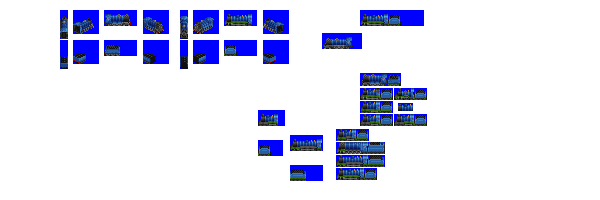
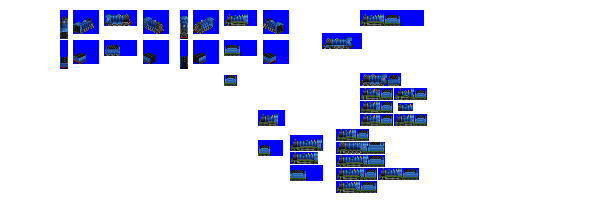
Change: re-introduce gen 2 express_1 engine (Carrack), and re-classify express engines to split heavy_express out

diff --git a/src/train.py b/src/train.py
@@ -215,7 +215,7 @@ class Consist(object):
         # will switch vehicle to livery 2 for specific roles of lead engine
         result = []
         for consist in self.roster.engine_consists:
-            if consist.role in ['express_1', 'express_2']:
+            if consist.role in ['heavy_express_1', 'heavy_express_2']:
                 result.append(consist.id)
         return result
 
@@ -278,7 +278,7 @@ class Consist(object):
             # could be fixed by checking a list of railtypes
             return speeds_by_track_type[self.speed_class][self.gen - 1]
         elif self.role:
-            express_roles = ['express_1', 'express_2', 'branch_express']
+            express_roles = ['express_1', 'express_2', 'heavy_express_1', 'heavy_express_2' 'branch_express']
             if self.role in express_roles:
                 return speeds_by_track_type['express'][self.gen - 1]
             elif self.role in ['pax_high_speed']:

diff --git a/src/vehicles/upcountry.py b/src/vehicles/upcountry.py
@@ -2,19 +2,19 @@ from train import EngineConsist, SteamEngineUnit, SteamEngineTenderUnit
 
 consist = EngineConsist(id='upcountry',
                         base_numeric_id=230,
-                        name='4-4-2 Upcountry',
-                        role='express_1',
-                        power=1300,
+                        name='4-6-0 Upcountry',
+                        role='heavy_express_1',
+                        power=1450,
                         tractive_effort_coefficient=0.18,
                         buy_cost=47,
                         gen=2)
 
 consist.add_unit(type=SteamEngineUnit,
                  weight=90,
-                 vehicle_length=7,
+                 vehicle_length=6,
                  spriterow_num=0)
 
 consist.add_unit(type=SteamEngineTenderUnit,
                  weight=35,
-                 vehicle_length=3,
+                 vehicle_length=4,
                  spriterow_num=1)

diff --git a/src/rosters/pony.py b/src/rosters/pony.py
@@ -4,6 +4,7 @@ from vehicles import apt_thing
 from vehicles import bean_feast
 from vehicles import boar_cat
 from vehicles import braf
+from vehicles import carrack
 from vehicles import cheddar_valley
 from vehicles import cheese_bug
 from vehicles import chimera
@@ -90,13 +91,14 @@ roster = Roster(id = 'pony',
                            super_shoebox,
                            ultra_shoebox,
                            spinner,
+                           carrack,
                            tencendur,
                            dragon,
+                           thunderbird,
+                           turtle,
                            upcountry,
                            pegasus,
                            shredder,
-                           thunderbird,
-                           turtle,
                            saxon,
                            little_bear,
                            faun,

diff --git a/src/vehicles/tencendur.py b/src/vehicles/tencendur.py
@@ -4,9 +4,7 @@ consist = EngineConsist(id='tencendur',
                         base_numeric_id=890,
                         name='4-4-0 Tencendur',
                         role='express_1',
-                        joker=True,  # this engine doesn't fit the set roster pattern, by design it's to mix things up
-                        # there is no date offset for this engine though, it needs to arrive at same time as Pegasus
-                        power=1300,
+                        power=1350,
                         tractive_effort_coefficient=0.18,
                         buy_cost=47,
                         gen=3)

diff --git a/src/vehicles/dragon.py b/src/vehicles/dragon.py
@@ -4,7 +4,8 @@ consist = EngineConsist(id='dragon',
                         base_numeric_id=420,
                         name='Dragon',
                         role='express_1',
-                        power=2050,
+                        power=2050, # one-off huge jump in HP compared to steam engine of same era
+                        joker=True,  # this engine doesn't fit the set roster pattern, by design it's to mix things up
                         random_reverse=True,
                         gen=4,
                         sprites_complete=True)

diff --git a/src/vehicles/shredder.py b/src/vehicles/shredder.py
@@ -6,7 +6,7 @@ from train import EngineConsist, DieselEngineUnit
 consist = EngineConsist(id='shredder',
                         base_numeric_id=900,
                         name='Shredder',
-                        role='express_1',
+                        role='heavy_express_1', # Shredder is last of the heavy_express_1 type in Brit roster
                         power=2750,
                         joker=True,  # this engine doesn't fit the set roster pattern, by design it's to mix things up
                         random_reverse=True,

diff --git a/src/vehicles/pegasus.py b/src/vehicles/pegasus.py
@@ -3,8 +3,8 @@ from train import EngineConsist, SteamEngineUnit, SteamEngineTenderUnit
 consist = EngineConsist(id='pegasus',
                         base_numeric_id=300,
                         name='2-8-2 Pegasus',
-                        role='express_1',
-                        power=1750,
+                        role='heavy_express_1',
+                        power=1950,
                         tractive_effort_coefficient=0.25,
                         buy_cost=81,
                         gen=3)

diff --git a/src/vehicles/hurly_burly.py b/src/vehicles/hurly_burly.py
@@ -3,7 +3,7 @@ from train import EngineConsist, ElectricEngineUnit
 consist = EngineConsist(id='hurly_burly',
                         base_numeric_id=390,
                         name='Hurly Burly',
-                        role='express_2',
+                        role='heavy_express_2',
                         power=1800,
                         tractive_effort_coefficient=0.25,
                         random_reverse=True,

diff --git a/src/vehicles/moor_gallop.py b/src/vehicles/moor_gallop.py
@@ -3,7 +3,7 @@ from train import EngineConsist, ElectricEngineUnit
 consist = EngineConsist(id='moor_gallop',
                         base_numeric_id=170,
                         name='Moor Gallop',
-                        role='express_2',
+                        role='heavy_express_2',
                         power=2400,
                         tractive_effort_coefficient=0.25,
                         random_reverse=True,

diff --git a/src/vehicles/screamer.py b/src/vehicles/screamer.py
@@ -3,7 +3,7 @@ from train import EngineConsist, ElectricEngineUnit
 consist = EngineConsist(id='screamer',
                         base_numeric_id=450,
                         name='Screamer',
-                        role='express_2',
+                        role='heavy_express_2',
                         power=5000,
                         random_reverse=True,
                         gen=5,

diff --git a/src/vehicles/sizzler.py b/src/vehicles/sizzler.py
@@ -3,7 +3,7 @@ from train import EngineConsist, ElectricEngineUnit
 consist = EngineConsist(id='sizzler',
                         base_numeric_id=2180,
                         name='Sizzler',
-                        role='express_2',
+                        role='heavy_express_2',
                         power=6800,
                         random_reverse=True,
                         gen=6,

diff --git a/src/vehicles/roarer.py b/src/vehicles/roarer.py
@@ -3,7 +3,7 @@ from train import EngineConsist, ElectricEngineUnit
 consist = EngineConsist(id='roarer',
                         base_numeric_id=2230,
                         name='Roarer',
-                        role='express_2',
+                        role='heavy_express_2',
                         power=3200,
                         random_reverse=True,
                         gen=4,
